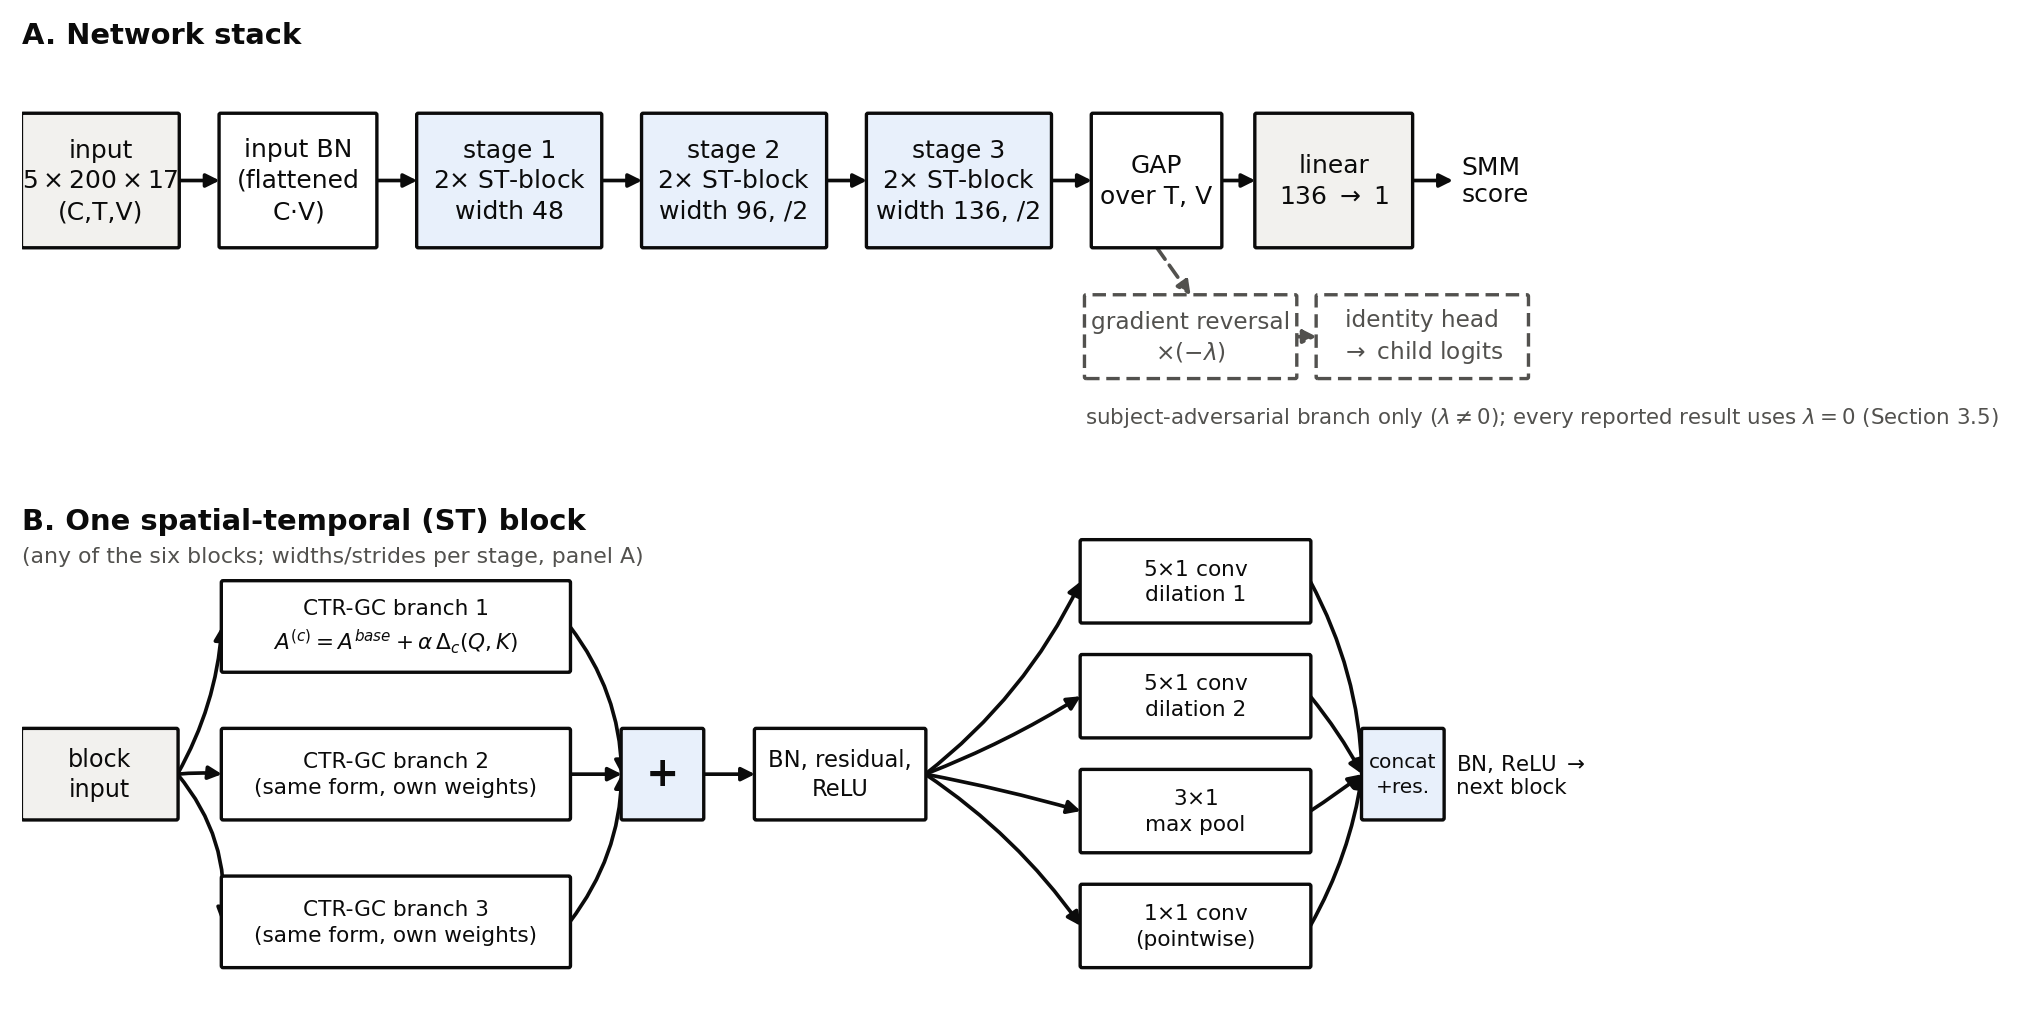
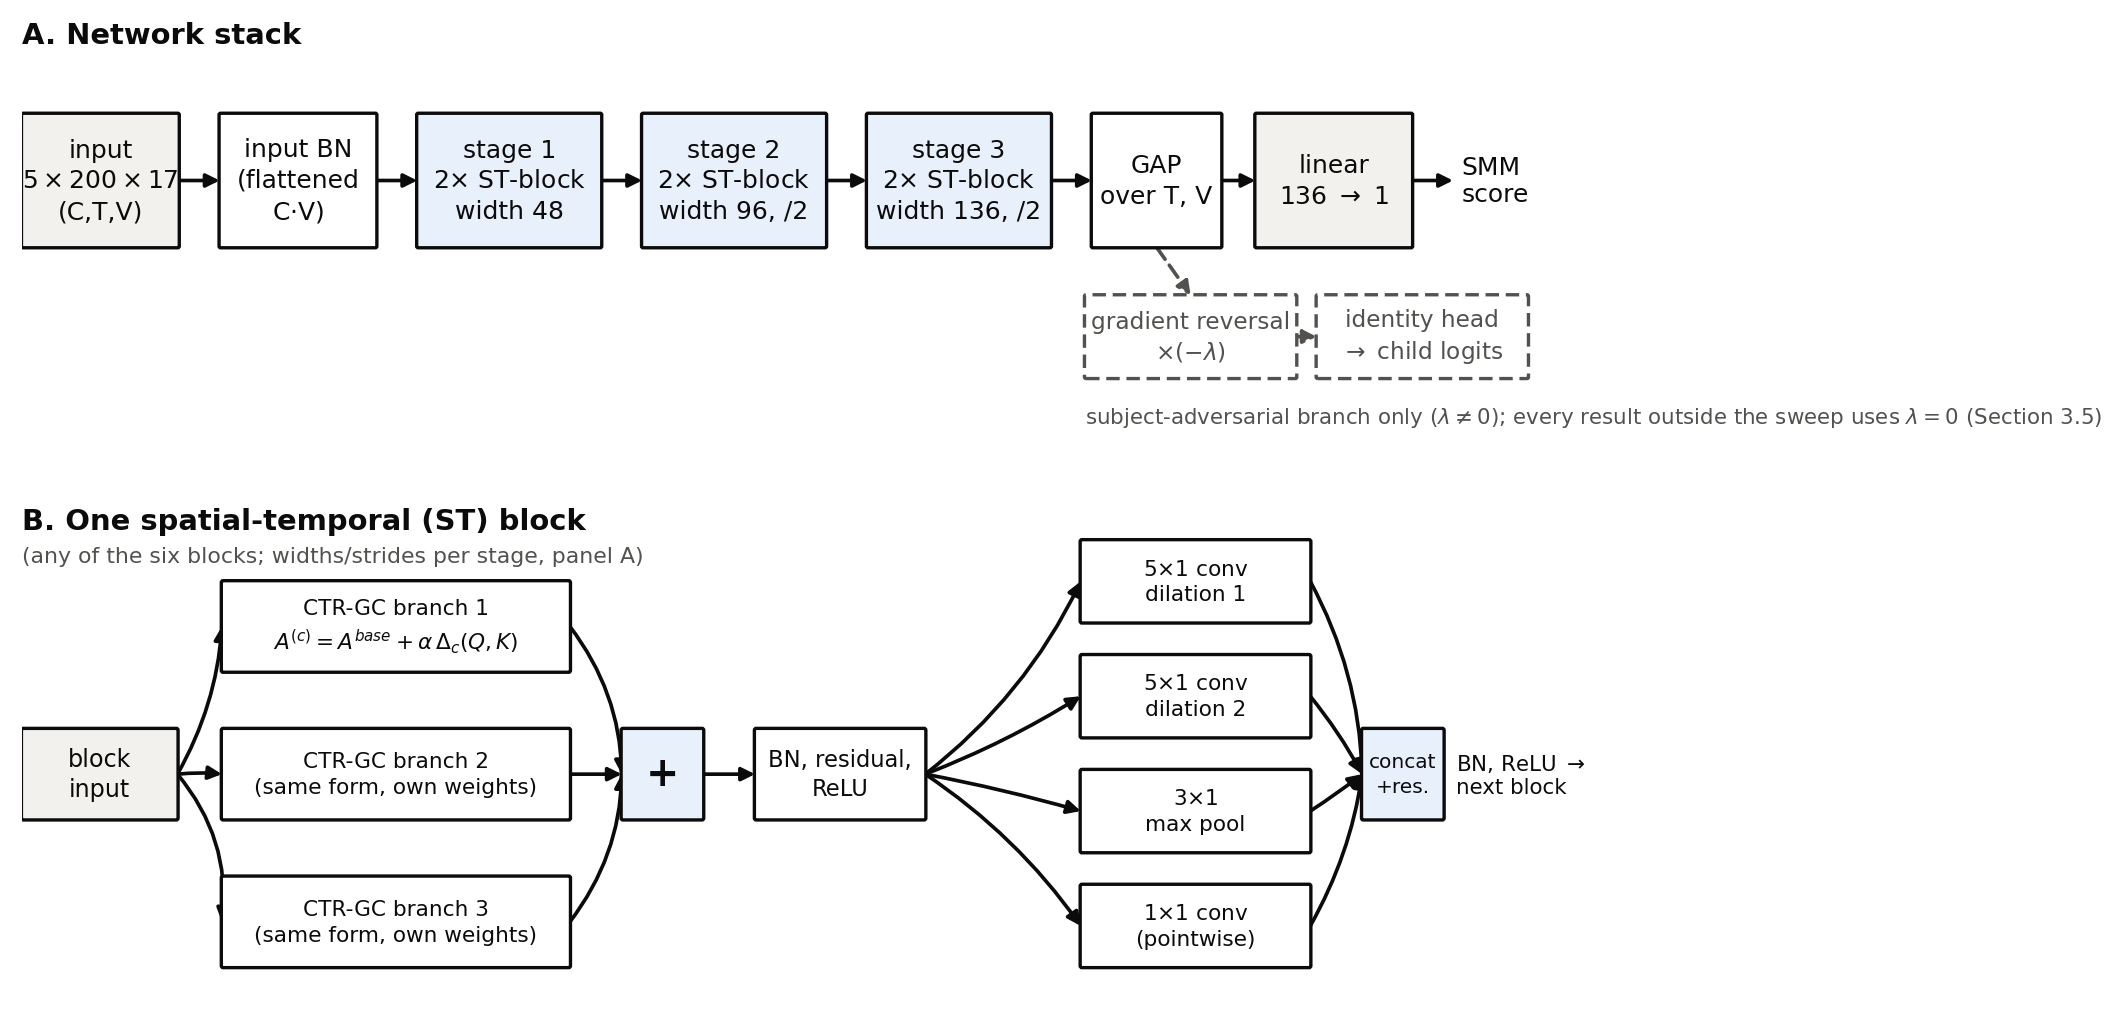
Architecture figure: state that only the SAPL sweep uses a nonzero lambda

diff --git a/results/make_architecture_figure.py b/results/make_architecture_figure.py
@@ -1,8 +1,8 @@
 """Draw the CompactCTRGCN architecture diagram for the supplementary.
 
 Two panels: (A) the network stack from input tensor to the detection
-score, with the SAPL identity branch shown dashed since every reported
-detector result uses lambda = 0 (main paper Section 3.5); (B) one
+score, with the SAPL identity branch shown dashed since every detector
+result outside the SAPL sweep uses lambda = 0 (main paper Section 3.5); (B) one
 spatial-temporal block expanded into its CTR-GC branches and multi-scale
 temporal branches. Numbers (widths, channel counts, kernel sizes) match
 stage1/model.py and sections/math_details.tex; this figure adds no new
@@ -116,7 +116,7 @@ arrow(axA, (bottom(b_gap)[0], bottom(b_gap)[1]), top(b_grl), color=MUTED,
       connectionstyle="arc3,rad=0.0")
 arrow(axA, right(b_grl), left(b_id), color=MUTED, ls=(0, (4, 2)))
 axA.text(xs[5] - 0.05, y0 - 1.18,
-         r"subject-adversarial branch only ($\lambda \ne 0$); every reported result uses $\lambda=0$ (Section 3.5)",
+         r"subject-adversarial branch only ($\lambda \ne 0$); every result outside the sweep uses $\lambda=0$ (Section 3.5)",
          fontsize=7.0, color=MUTED, ha="left", va="top")
 
 # panel B, bottom
